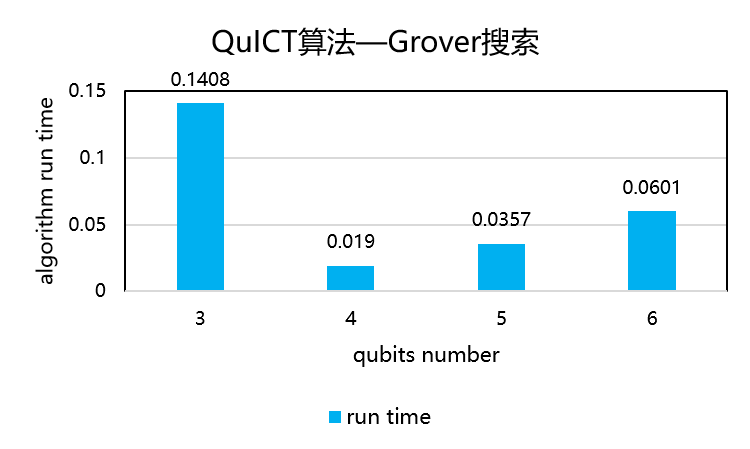
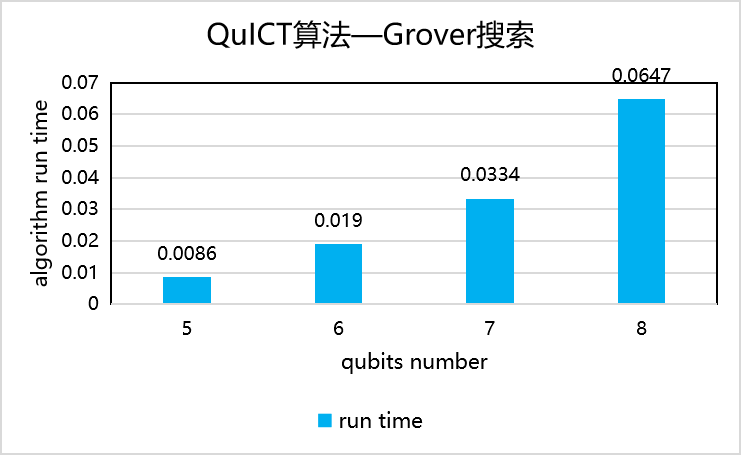
modify spaceline

Changed region(s): [[0.0, 0.0, 1.0, 1.0], [0.403, 0.9042, 0.5889, 0.9666], [0.465, 0.7483, 0.6819, 0.8107]]

diff --git a/docs/zh/docs/QuICTbenchmark/qcda_benchmark.md b/docs/zh/docs/QuICTbenchmark/qcda_benchmark.md
@@ -3,6 +3,7 @@
 ## 映射基准测试
 
 编译规则：构建3×3网状拓扑结构、9量子比特、36~180量子门数的量子电路，执行SABRE、MCTS、RL三种映射方法
+
 基准度量：量子电路映射后量子电路中新增的交换门门数进行对比
 
 <figure markdown>
@@ -12,6 +13,7 @@
 </figure>
 
 编译规则：构建5比特T型拓扑结构、5量子比特、36~180量子门数的量子电路，执行SABRE、MCTS、RL三种映射方法
+
 基准度量：量子电路映射后量子电路中新增的交换门门数进行对比
 
 <figure markdown>
@@ -25,6 +27,7 @@
 ### Clifford+Rz电路优化
 
 编译规则：构建4~20量子比特、80~400量子门数、克里弗电路指令集构造的的量子电路构造的量子电路，对每一个电路执行Clifford+Rz电路优化
+
 基准度量：量子电路优化前后的门数、深度、双比特门门数进行对比
 
 <figure markdown>
@@ -36,6 +39,7 @@
 ### 无辅助比特合成电路优化
 
 编译规则：构建4~20量子比特、80~400量子门数、单一可控非门构造的的量子电路，执行无辅助比特合成电路优化
+
 基准度量：量子电路优化前后的门数、深度、双比特门门数进行对比
 
 <figure markdown>
@@ -47,6 +51,7 @@
 ### 交换优化
 
 编译规则：构建4~20量子比特、80~400量子门数、随机指令集构造的的量子电路，执行无辅助比特合成电路优化
+
 基准度量：量子电路优化前后的门数、深度、双比特门门数进行对比
 
 <figure markdown>
@@ -58,6 +63,7 @@
 ### Clifford电路与Symbolic优化
 
 编译规则：构建4~20量子比特、80~400量子门数、随机指令集构造的的量子电路，执行Clifford电路与Symbolic优化电路优化
+
 基准度量：量子电路优化前后的门数、深度、双比特门门数进行对比
 
 <figure markdown>
@@ -69,6 +75,7 @@
 ### 模板匹配优化
 
 编译规则：构建4~20量子比特、80~400量子门数、克里弗电路指令集构造的的量子电路，执行电路模板匹配
+
 基准度量：量子电路优化前后的门数、深度、双比特门门数进行对比
 
 <figure markdown>
@@ -82,6 +89,7 @@
 ### 门转换
 
 编译规则：构建5量子比特、50量子门数、随机指令集构造的的量子电路，选择六种指令集对每个电路执行门转换电路优化
+
 基准度量：量子电路指令集转换前后的门数、深度进行对比
 
 <figure markdown>
@@ -93,6 +101,7 @@
 ### 量子态制备
 
 编译规则：构建4~8量子比特的态向量构造的的量子电路，执行量子态制备算法
+
 基准度量：原量子电路和返回的量子电路的门数、深度进行对比
 
 <figure markdown>
@@ -104,6 +113,7 @@
 ### 酉矩阵分解
 
 编译规则：构建4~8量子比特的酉矩阵构造的的量子电路，执行酉矩阵分解
+
 基准度量：原量子电路和返回的量子电路的门数、深度进行对比
 
 <figure markdown>

diff --git a/docs/zh/docs/QuICTbenchmark/simulation_benchmark.md b/docs/zh/docs/QuICTbenchmark/simulation_benchmark.md
@@ -3,6 +3,7 @@
 ## 状态向量模拟器基准测试
 
 编译规则：构建5~25量子比特、50~250量子门数、随机指令集构造的的量子电路，使用状态向量模拟器模拟
+
 基准度量：量子电路运行过程中量子比特的状态的运行时间
 
 <figure markdown>
@@ -14,6 +15,7 @@
 ## 密度矩阵模拟器基准测试
 
 编译规则：构建2~10量子比特、20~100量子门数、随机指令集构造的的量子电路，使用密度矩阵模拟器模拟
+
 基准度量：量子电路运行过程中量子比特的状态的运行时间
 
 <figure markdown>

diff --git a/docs/zh/docs/QuICTbenchmark/algorithm_benchmark.md b/docs/zh/docs/QuICTbenchmark/algorithm_benchmark.md
@@ -13,7 +13,7 @@
 
 ## Grover搜索算法
 
-编译规则：在3~6位的MCT oracle上运行Grover搜索算法得到搜索结果
+编译规则：在5~8量子比特的MCT oracle上运行Grover搜索算法得到搜索结果
 基准度量：Grover搜索算法运行的时间对比
 
 <figure markdown>
